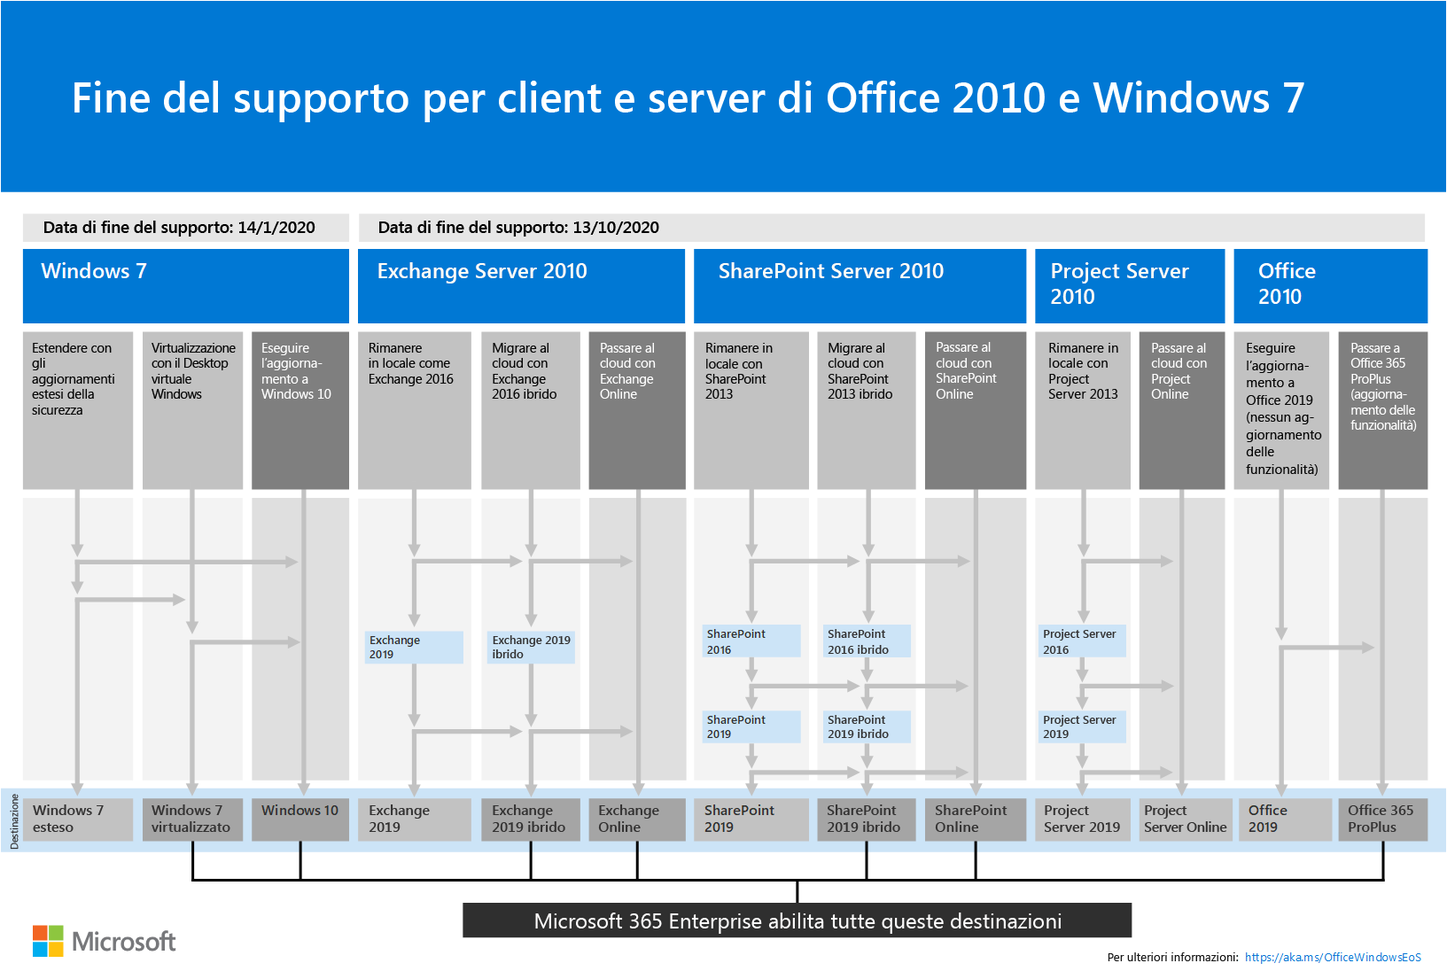
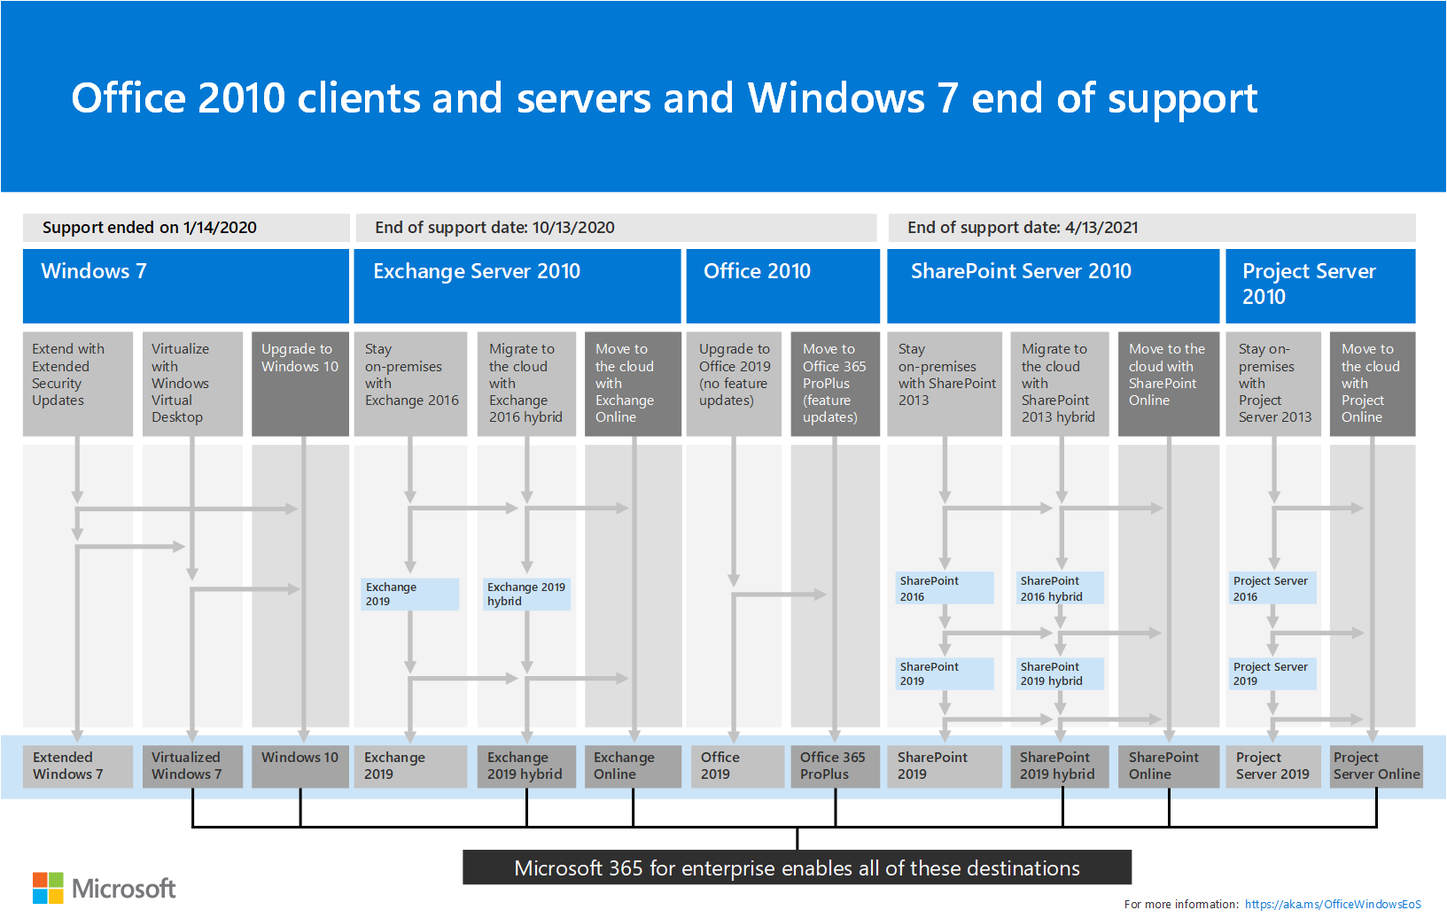
commit translated contents

diff --git a/microsoft-365/admin/security-and-compliance/multi-factor-authentication-plan.md b/microsoft-365/admin/security-and-compliance/multi-factor-authentication-plan.md
@@ -20,16 +20,16 @@ search.appverid:
 ms.assetid: 043807b2-21db-4d5c-b430-c8a6dee0e6ba
 ROBOTS: NOINDEX, NOFOLLOW
 description: Informazioni sull'autenticazione a più fattori in Office 365 e sui passaggi da seguire per configurarlo.
-ms.openlocfilehash: be3b355f4487e2df5c2e20c9911c3bb421d5f7e1
-ms.sourcegitcommit: 00ce4626e1be182c5a91210a23662c9704384efa
+ms.openlocfilehash: 715baeb0355ab203e890f2c87cf0751eff69e7f8
+ms.sourcegitcommit: dbbdeca5a6cd048e1bde9e820a8b8a0d6022c7a2
 ms.translationtype: MT
 ms.contentlocale: it-IT
-ms.lasthandoff: 04/07/2020
-ms.locfileid: "43170941"
+ms.lasthandoff: 04/14/2020
+ms.locfileid: "43503996"
 ---
 # <a name="plan-for-multi-factor-authentication-for-office-365-deployments"></a>Pianificare l'autenticazione a più fattori per le distribuzioni di Office 365
 
-L'autenticazione a più fattori (MFA) è un metodo di autenticazione che richiede l'uso di più metodi di verifica e aggiunge un secondo livello di sicurezza agli accessi e alle transazioni degli utenti. Funziona richiedendo due o più dei metodi di verifica seguenti:
+L'autenticazione a più fattori (MFA) è un metodo di autenticazione che richiede l'uso di più metodi di verifica e aggiunge un secondo livello di sicurezza agli accessi e alle transazioni degli utenti. Funziona richiedendo un passaggio di verifica di addizione con informazioni oltre la password dell'account utente, ad esempio:
   
 - Un passcode generato casualmente
     
@@ -39,11 +39,11 @@ L'autenticazione a più fattori (MFA) è un metodo di autenticazione che richied
     
 - Un dispositivo biometrico 
     
-## <a name="multi-factor-authentication-in-office-365"></a>Autenticazione a più fattori in Office 365
+## <a name="mfa-in-office-365"></a>AMF in Office 365
 
-Office 365 utilizza l'autenticazione a più fattori per fornire la sicurezza aggiuntiva ed è gestita dall'interfaccia di amministrazione di Microsoft 365. Office 365 offre il seguente sottoinsieme di funzionalità di autenticazione a più fattori di Azure come parte della sottoscrizione: 
+Office 365 utilizza l'AMF per la sicurezza di accesso supplementare e può essere gestito per ogni singolo account utente dall'interfaccia di amministrazione di Microsoft 365. Office 365 offre il seguente sottoinsieme di funzionalità di autenticazione a più fattori di Azure come parte dell'abbonamento: 
   
-- La possibilità di abilitare e applicare l'autenticazione a più fattori per gli utenti finali
+- La possibilità di abilitare e applicare l'AMF per gli utenti finali
     
 - L'uso di un'app per dispositivi mobili (online o OTP, One-Time Password) come secondo fattore di autenticazione
     
@@ -51,21 +51,24 @@ Office 365 utilizza l'autenticazione a più fattori per fornire la sicurezza agg
     
 - L'uso di un SMS come secondo fattore di autenticazione
     
-- Password delle applicazioni per i client non browser, ad esempio, il software di comunicazione Microsoft Lync 2013
+- Password dell'applicazione per i client non browser (ad esempio, il software di comunicazione Microsoft Lync 2013)
     
 - Messaggio di saluto predefinito Microsoft durante le telefonate di autenticazione
     
 Per l'elenco completo delle funzionalità aggiunte, vedere [il confronto con la versione Azure Multi-Factor Authentication](https://go.microsoft.com/fwlink/?LinkId=506927). È sempre possibile usufruire delle funzionalità complete acquistando il servizio Azure Multi-Factor Authentication. 
   
-Il subset di funzionalità varia a seconda che si abbia una distribuzione solo cloud per Office 365 o una configurazione ibrida con Single Sign-On e Active Directory Federation Services (ADFS). 
+È possibile ottenere un diverso sottoinsieme di funzionalità a seconda che si disponga di una identità ibrida o di solo cloud per Office 365 o di autenticazione federata con Active Directory Federation Services (ADFS). 
   
-|**Da dove si gestisce il tenant di Office 365?**|**Opzioni per il secondo fattore dell'autenticazione a più fattori**|
-|:-----|:-----|
-|Solo cloud  <br/> |Autenticazione a più fattori di Azure (testo o telefonata)  <br/> |
-|Configurazione ibrida, gestita in locale  <br/> | Se l'identità utente viene gestita in locale, sono disponibili le opzioni seguenti:  <br/>  Smart Card fisica o virtuale (quando si utilizza ADFS)  <br/> [Autenticazione](https://go.microsoft.com/fwlink/p/?LinkId=526677) a più fattori di Azure (modulo per ADFS)  <br/>  Autenticazione a più fattori di Azure Active Directory (Azure AD)  <br/> |
+|**Dove si gestisce il tenant di Office 365?** | **Opzioni del secondo fattore di AMF**|
+
+|:-----|:-----| | Solo cloud  <br/> | Autenticazione a più fattori di Azure (testo o telefonata)  <br/> | | Configurazione ibrida, gestita in locale  <br/> | Se si gestisce l'identità dell'utente locale, sono disponibili le opzioni seguenti:  <br/>  Smart Card fisica o virtuale (quando si utilizza ADFS)  <br/> [Autenticazione](https://go.microsoft.com/fwlink/p/?LinkId=526677) a più fattori di Azure (modulo per ADFS)  <br/>  Autenticazione a più fattori di Azure Active Directory (Azure AD)  <br/> |
    
   
-La figura seguente mostra in che modo le app aggiornate per i dispositivi di Office 2013 (in Windows) consentono agli utenti di accedere con l'autenticazione a più fattori. Le app per dispositivi di Office 2013 supportano l'autenticazione a più fattori tramite l'utilizzo della [libreria di autenticazione di Active Directory (adal)](https://go.microsoft.com/fwlink/p/?LinkId=526684). Azure AD ospita una pagina Web per l'accesso degli utenti. Il provider di identità può essere Azure AD o un provider di identità federate come ADFS. L'autenticazione per gli utenti federati prevede i passaggi seguenti:
+La figura seguente mostra in che modo le app aggiornate per i dispositivi di Office 2013 (in Windows) consentono agli utenti di accedere con l'autenticazione a più fattori. 
+
+![Modern authentication for Office 2013 device apps.](../../media/dc37645c-b899-4715-b162-d7653bd0aebd.png)
+
+Le app per dispositivi di Office 2013 supportano l'autenticazione a più fattori tramite l'utilizzo della [libreria di autenticazione di Active Directory (adal)](https://go.microsoft.com/fwlink/p/?LinkId=526684). Azure AD ospita una pagina Web per l'accesso degli utenti. Il provider di identità può essere Azure AD o un provider di identità federate come ADFS. L'autenticazione per gli utenti federati prevede i passaggi seguenti:
   
 1. Azure AD reindirizza l'utente alla pagina Web di accesso ospitata dal provider di identità del record per il tenant di Office 365. Il provider di identità è determinato dal dominio specificato nel nome di accesso dell'utente.
     
@@ -75,11 +78,8 @@ La figura seguente mostra in che modo le app aggiornate per i dispositivi di Off
     
 4. Azure AD restituisce un token Web JSON (JWT) all'app per i dispositivi di Office e l'app viene autenticata usando un token JWT con Office 365. 
     
-Questa operazione è descritta in dettaglio nella figura seguente:
   
-![Modern authentication for Office 2013 device apps.](../../media/dc37645c-b899-4715-b162-d7653bd0aebd.png)
-  
-## <a name="software-requirements"></a>Requisiti software
+## <a name="requirements-for-office-2013-client-apps"></a>Requisiti per le app client di Office 2013
 
 Per abilitare l'autenticazione a più fattori per le app client di Office 2013, è necessario che sia installato il software seguente (la versione elencata di seguito o una versione più recente) a seconda che sia stata eseguita un'[Installazioni basate su A portata di clic](#click-to-run-based-installations) o un' [Installazioni basate su MSI](#msi-based-installations).
   
@@ -91,11 +91,13 @@ Per determinare se l'installazione di Office è basata su A portata di clic o su
     
 3. Per le installazioni A portata di clic di Outlook 2013, viene visualizzato il pulsante **Opzioni di aggiornamento**. Per le installazioni basate su MSI, non viene visualizzato il pulsante **Opzioni di aggiornamento**. 
     
-    ![Graphic that shows how to tell if Office 2013 install is click-to-run or MSI-based](../../media/1e75143f-9e37-4e0c-9610-43a80771571e.png)
+    ![Come stabilire se l'installazione di Office 2013 è a portata di clic o basata su MSI](../../media/1e75143f-9e37-4e0c-9610-43a80771571e.png)
+
+Per ulteriori informazioni, vedere l' [articolo relativo alle domande frequenti sull'autenticazione moderna wiki](https://go.microsoft.com/fwlink/p/?LinkId=530064).
   
 ### <a name="click-to-run-based-installations"></a>Installazioni basate su A portata di clic
 
-Per le installazioni basate su A portata di clic è necessario che nel computer sia installato il software seguente (la versione elencata di seguito o una versione successiva). Se la versione del file non è uguale o successiva alla versione del file nell'elenco, aggiornarla con la procedura seguente.
+Per le installazioni basate su a portata di clic, è necessario che sia installato il software seguente, con la versione del file riportata di seguito o una versione successiva. Se la versione del file non è uguale o successiva alla versione del file nell'elenco, aggiornarla con la procedura seguente.
   
 |**Usare l'attività di riepilogo del progetto per allegare o creare un collegamento ai documenti per la pianificazione**|**Percorso di installazione nel computer**|**Versione del file**|
 |:-----|:-----|:-----|
@@ -121,30 +123,24 @@ Per le installazioni basate su MSI è necessario che nel computer sia installato
    
 ## <a name="enable-mfa"></a>Abilitare l'autenticazione a più fattori
 
-Per abilitare l'autenticazione a più fattori, è necessario completare le operazioni seguenti:
+Per abilitare l'AMF per l'abbonamento a Office 365, attenersi alla seguente procedura:
   
-1. Abilitare i client per l'autenticazione moderna:
+1. Se necessario, [abilitare l'autenticazione moderna per Office 2013 nei dispositivi Windows](enable-modern-authentication.md).
     
-  - [Abilitare l'autenticazione moderna per Office 2013 nei dispositivi Windows](enable-modern-authentication.md) . 
+2. Per l'autenticazione federata, impostare l'autenticazione a più fattori di Azure con il servizio directory di terze parti.
     
-  - Configurare l'autenticazione a più fattori di Azure con servizi directory di terze parti.
+    Per informazioni su provider di identità specifici accettati per questo programma, vedere [scenari avanzati con autenticazione a più fattori di Azure e soluzioni VPN di terze parti](https://docs.microsoft.com/azure/active-directory/authentication/howto-mfaserver-nps-vpn) . 
     
-    Per informazioni su specifici provider di identità accettati per questo programma, vedere [scenari avanzati con autenticazione a più fattori di Azure e soluzioni VPN di terze parti](https://docs.microsoft.com/azure/active-directory/authentication/howto-mfaserver-nps-vpn) . 
+3. [Configurare l'autenticazione a più fattori per Office 365](set-up-multi-factor-authentication.md).
     
-2. [Configurare l'autenticazione a più fattori per Office 365](set-up-multi-factor-authentication.md)
-    
-3. Spiegare ai singoli utenti come effettuare l'accesso con l'autenticazione a più fattori: [Accedere a Office 365 con la verifica in due passaggi](https://support.office.com/article/2b856342-170a-438e-9a4f-3c092394d3cb.aspx).
+4. Informare gli utenti sulla [configurazione dell'AMF per l'account utente di Office 365](https://support.office.com/article/set-up-2-step-verification-for-office-365-ace1d096-61e5-449b-a875-58eb3d74de14). Dopo aver impostato il metodo di autenticazione secondario, i relativi accessi futuri richiederanno l'AMF.
     
 > [!IMPORTANT]
-> Se gli utenti sono stati abilitati per l'autenticazione a più fattori di Azure e dispongono di tutti i dispositivi che eseguono Office 2013 che non sono abilitati per l'autenticazione moderna, dovranno utilizzare AppPasswords su tali dispositivi. Per altre informazioni sulle password per app (AppPassword) e su quando, dove e come usarle, vedere: [Password per app con Azure Multi_Factor Authentication](https://go.microsoft.com/fwlink/p/?LinkId=528178). 
+> Se gli utenti sono stati abilitati per l'autenticazione a più fattori di Azure e dispongono di tutti i dispositivi che eseguono Office 2013 che non sono abilitati per l'autenticazione moderna, dovranno utilizzare le password dell'app. Per ulteriori informazioni sulle password delle app e sulla modalità di utilizzo, è possibile trovare le [password delle app con l'autenticazione Multi_Factor di Azure](https://go.microsoft.com/fwlink/p/?LinkId=528178). 
   
-## <a name="faq"></a>Domande frequenti
-
-[Domande frequenti sull'articolo wiki sull'autenticazione moderna](https://go.microsoft.com/fwlink/p/?LinkId=530064)
+## <a name="known-issues"></a>Problemi noti
   
- **Problemi noti:**
-  
-[Autenticazione moderna di Office 2013 e Office 365 ProPlus: Informazioni utili prima del processo di onboarding](https://social.technet.microsoft.com/wiki/contents/articles/30214.office-2013-and-office-365-proplus-modern-authentication-things-to-know-before-onboarding.aspx)
+[Autenticazione moderna di Office 2013 e Office 365 ProPlus: informazioni utili per l'onboarding](https://social.technet.microsoft.com/wiki/contents/articles/30214.office-2013-and-office-365-proplus-modern-authentication-things-to-know-before-onboarding.aspx)
   
  **Risoluzione dei problemi di Azure Multi-Factor Authentication:**
   

diff --git a/microsoft-365/admin/security-and-compliance/set-up-multi-factor-authentication.md b/microsoft-365/admin/security-and-compliance/set-up-multi-factor-authentication.md
@@ -22,12 +22,12 @@ search.appverid:
 ms.assetid: 8f0454b2-f51a-4d9c-bcde-2c48e41621c6
 description: Informazioni su come usare le impostazioni predefinite per la sicurezza per configurare l'autenticazione a più fattori per gli utenti di Office 365.
 monikerRange: o365-worldwide
-ms.openlocfilehash: 5f468f040ca88ab4ab2bc198d0d7550bf2e7f4af
-ms.sourcegitcommit: 8a88b7526e6a3a907f33a8567e0d25b74fe60d80
+ms.openlocfilehash: 7e48f72f2fd8cfc5042bd15f994cc98bfa5fca8c
+ms.sourcegitcommit: dbbdeca5a6cd048e1bde9e820a8b8a0d6022c7a2
 ms.translationtype: MT
 ms.contentlocale: it-IT
-ms.lasthandoff: 04/09/2020
-ms.locfileid: "43204023"
+ms.lasthandoff: 04/14/2020
+ms.locfileid: "43503972"
 ---
 # <a name="set-up-multi-factor-authentication"></a>Configurare l'autenticazione a più fattori
   
@@ -37,6 +37,7 @@ ms.locfileid: "43204023"
 Nei nuovi abbonamenti a Office 365 per le aziende o Microsoft 365 Business le impostazioni predefinite per la sicurezza sono attivate automaticamente. Questo significa che ogni utente dovrà configurare il master e installare l'app Microsoft Authenticator sul proprio dispositivo mobile. Per altre informazioni, vedere [Configurare la verifica in due passaggi per Office 365](https://support.office.com/article/ace1d096-61e5-449b-a875-58eb3d74de14).  
 
 I nove ruoli di amministratore seguenti dovranno eseguire delle autenticazioni aggiuntive ogni volta che eseguono l'accesso:
+
 - Amministratore globale
 - Amministratore di SharePoint
 - Amministratore di Exchange
@@ -47,7 +48,7 @@ I nove ruoli di amministratore seguenti dovranno eseguire delle autenticazioni a
 - Amministratore utenti
 - Amministratore dell'autenticazione
 
-Tutti gli altri utenti dovranno eseguire l'autenticazione aggiuntiva quando necessario. Per altre informazioni, vedere [Che cosa sono le impostazioni predefinite per la sicurezza?](https://docs.microsoft.com/azure/active-directory/fundamentals/concept-fundamentals-security-defaults)
+Tutti gli altri utenti dovranno eseguire l'autenticazione aggiuntiva quando necessario. Per ulteriori informazioni, vedere [che cosa sono le impostazioni predefinite](https://docs.microsoft.com/azure/active-directory/fundamentals/concept-fundamentals-security-defaults)per la sicurezza.
 
 > [!NOTE]
 > È necessario essere un amministratore globale di Office 365 per impostare o modificare l'AMF. <br><br>
@@ -62,7 +63,6 @@ Se in precedenza è stata configurata l'autenticazione a più fattori con criter
 
 1. Accedere all'[interfaccia di amministrazione](https://go.microsoft.com/fwlink/p/?linkid=834822) con le credenziali di amministratore globale.
 2. Passare alle [Proprietà di Azure Active Directory](https://portal.azure.com/#blade/Microsoft_AAD_IAM/ActiveDirectoryMenuBlade/Properties).
-
 3. Nella parte inferiore della pagina scegliere **Gestire le impostazioni predefinite per la sicurezza**.
 4. Scegliere **Sì** per abilitare le impostazioni predefinite per la sicurezza o **No** per disabilitare le impostazioni predefinite per la sicurezza e quindi scegliere **Salva**.
 
@@ -74,9 +74,9 @@ Se in precedenza è stata configurata l'autenticazione a più fattori con criter
 
 3. Sulla **sicurezza | Pagina introduttiva** , scegliere **accesso condizionale**. 
 
-4. Nella pagina **Criteri di accesso condizionale al portale di Azure** selezionare ogni criterio di base **Attivato** e impostarlo su **Disattivato**.
+4. Nella pagina **criteri di accesso condizionale** scegliere tutti i criteri di base **che sono**attivi e impostarli su **disattivato**.
 5. Passare alla pagina [Proprietà di Azure Active Directory](https://portal.azure.com/#blade/Microsoft_AAD_IAM/ActiveDirectoryMenuBlade/Properties).
-6. Nella parte inferiore della pagina scegliere **Gestire le impostazioni predefinite per la sicurezza**e nel riquadro **Abilitare le impostazioni predefinite per la sicurezza** impostare **Abilita le impostazioni predefinite per la sicurezza** su **Sì**. 
+6. Nella parte inferiore della pagina fare clic su **Gestisci impostazioni predefinite di sicurezza**e, nel riquadro **Attiva impostazioni di sicurezza** , impostare **Consenti impostazioni predefinite di sicurezza** su **Sì**e quindi scegliere **Salva**. 
 
 ## <a name="enable-modern-authentication-for-your-organization"></a>Abilitare l'autenticazione moderna per l'organizzazione
 
@@ -84,12 +84,13 @@ Tutte le applicazioni client di Office 2016 supportano MFA con ADAL (Active Dire
 
 1. Per abilitare l'autenticazione moderna, nell'[interfaccia di amministrazione](https://go.microsoft.com/fwlink/p/?linkid=834822) selezionare **Impostazioni** \> **Impostazioni** e quindi nella scheda **Servizi** scegliere **Autenticazione moderna** dall'elenco.
 
-2. Selezionare la casella **Abilita l'autenticazione moderna** nel pannello **Autenticazione moderna**. 
+2. Selezionare la casella **Attiva autenticazione moderna (scelta consigliata)** nel pannello **autenticazione moderna** e quindi fare clic su **Salva modifiche**. 
 
     ![Pannello Autenticazione moderna con casella di controllo Abilita selezionata.](../../media/enablemodernauth.png)
     
 > [!IMPORTANT]
 > Dal mese di agosto 2017 tutti i nuovi tenant di Office 365 che includono Skype for Business Online ed Exchange Online hanno l'autenticazione moderna abilitata per impostazione predefinita. Per controllare lo stato di autenticazione moderna di Skype for Business Online, è possibile usare PowerShell per Skype for Business Online con credenziali di amministratore globale. Eseguire Get-CsOAuthConfiguration per controllare l'output di -ClientADALAuthOverride. Se -ClientADALAuthOverride è "Allowed" (Consentito), l'autenticazione moderna è attiva.
+
 Per controllare lo stato di autenticazione moderna per Exchange Online, vedere [Abilitare l'autenticazione moderna in Exchange Online](https://docs.microsoft.com/exchange/clients-and-mobile-in-exchange-online/enable-or-disable-modern-authentication-in-exchange-online).
 
 ## <a name="related-articles"></a>Articoli correlati

diff --git a/microsoft-365/enterprise/microsoft-365-overview.md b/microsoft-365/enterprise/microsoft-365-overview.md
@@ -13,12 +13,12 @@ localization_priority: Normal
 ms.collection: M365-subscription-management
 ms.custom: it-pro
 description: Viene fornita un'introduzione ai percorsi per i componenti, i piani e la distribuzione di Microsoft 365 per Enterprise.
-ms.openlocfilehash: 043953ddfd38a9ef5119546ec5672dd46e8acb53
-ms.sourcegitcommit: 053d42480d8aa3792ecb0027ddd53d383a029474
+ms.openlocfilehash: 6b8d2aa7fd8455acde1d49a6ed7f7c93c5235652
+ms.sourcegitcommit: dbbdeca5a6cd048e1bde9e820a8b8a0d6022c7a2
 ms.translationtype: MT
 ms.contentlocale: it-IT
-ms.lasthandoff: 04/07/2020
-ms.locfileid: "43175191"
+ms.lasthandoff: 04/14/2020
+ms.locfileid: "43504092"
 ---
 # <a name="microsoft-365-for-enterprise-overview"></a>Panoramica di Microsoft 365 per le aziende
 
@@ -84,15 +84,14 @@ Questo poster a due pagine rappresenta un modo rapido per inventariare l'infrast
 
 ## <a name="avoid-end-of-support-for-windows-7-and-office-2010-clients-and-servers"></a>Evitare la fine del supporto per i client e i server Windows 7 e Office 2010
 
-I prodotti seguenti hanno raggiunto la fine del supporto il **14 gennaio 2020**:
-
-- [Windows 7](https://aka.ms/win7upgrade)
+[Windows 7](https://aka.ms/win7upgrade) ha raggiunto la fine del supporto il **14 gennaio 2020**.
 
 I prodotti seguenti potranno raggiungere la fine del supporto il **13 ottobre 2020**:
 
 - [Office 2010](https://docs.microsoft.com/DeployOffice/office-2010-end-support-roadmap)
 - [Exchange Server 2010](https://docs.microsoft.com/office365/enterprise/exchange-2010-end-of-support)
-- [SharePoint Server 2010](https://docs.microsoft.com/office365/enterprise/upgrade-from-sharepoint-2010)
+
+[SharePoint Server 2010](https://docs.microsoft.com/office365/enterprise/upgrade-from-sharepoint-2010) raggiungerà la fine del supporto il **13 aprile 2021**.
 
 Per un riepilogo visivo delle opzioni di aggiornamento, migrazione e passaggio al cloud per questi prodotti, vedere il [poster relativo alla fine del supporto](../media/migration-microsoft-365-enterprise-workload/Office2010Windows7EndOfSupport.pdf).
 
@@ -102,7 +101,7 @@ Questo poster di una pagina è un modo rapido per comprendere i diversi percorsi
 
 È anche possibile [scaricare il poster](https://github.com/MicrosoftDocs/microsoft-365-docs/raw/public/microsoft-365/media/migration-microsoft-365-enterprise-workload/Office2010Windows7EndOfSupport.pdf) e stamparlo in formato lettera, legale o tabloid (27,9 x 43,2 cm).
 
-## <a name="deploy"></a>Distribuzione
+## <a name="deploy"></a>Distribuire
 
 Esistono tre modi per distribuire i prodotti, le caratteristiche e i componenti di Microsoft 365 per Enterprise:
 

diff --git a/microsoft-365/security/mtp/preview.md b/microsoft-365/security/mtp/preview.md
@@ -19,12 +19,12 @@ ms.topic: conceptual
 search.appverid:
 - MOE150
 - MET150
-ms.openlocfilehash: f04d2e587a55a680a65425b34a88896466e09be3
-ms.sourcegitcommit: 9ca28ae8f7804eb488cf76ca4b09fe88787e0a49
+ms.openlocfilehash: c4facaac82ff8486c0c3a846e4f577c7888a3161
+ms.sourcegitcommit: dbbdeca5a6cd048e1bde9e820a8b8a0d6022c7a2
 ms.translationtype: MT
 ms.contentlocale: it-IT
-ms.lasthandoff: 04/02/2020
-ms.locfileid: "43113460"
+ms.lasthandoff: 04/14/2020
+ms.locfileid: "43503984"
 ---
 # <a name="microsoft-threat-protection-preview-features"></a>Funzionalità di anteprima di Microsoft Threat Protection
 
@@ -54,8 +54,9 @@ Attiva l'impostazione Anteprima esperienza per essere tra i primi a provare le f
 
 Quando si vede che è selezionata la casella di controllo attiva le caratteristiche di **Anteprima** , si noterà che è attiva la funzionalità di anteprima. 
 
-
-
 ## <a name="preview-features"></a>Funzionalità di anteprima
-Questa sezione verrà aggiornata con un elenco di funzionalità che sono in anteprima quando diventano disponibili per provare. 
+Le caratteristiche e i miglioramenti seguenti sono attualmente disponibili in anteprima:
 
+- **[Rilevamenti personalizzati](custom-detections-overview.md)** : utilizzare query di caccia avanzate per creare regole che ricercano automaticamente l'attività di violazione e altri elementi di interesse a intervalli regolari. Corrisponde agli avvisi del trigger di query e alle azioni di risposta specificate.
+
+- **[Tabelle di identità e app](advanced-hunting-schema-tables.md)** : consente di ottenere visibilità negli eventi di autenticazione, nelle query di Active Directory e nell'attività correlata all'applicazione con le tabelle [IdentityLogonEvents](advanced-hunting-identitylogonevents-table.md), [IdentityQueryEvents](advanced-hunting-identityqueryevents-table.md)e [AppFileEvents](advanced-hunting-appfileevents-table.md) nello schema di caccia avanzato.

diff --git a/microsoft-365/business/support/transition-csp-subscription.md b/microsoft-365/business/support/transition-csp-subscription.md
@@ -1,5 +1,5 @@
 ---
-title: Transizione di un abbonamento Microsoft 365 Business CSP 
+title: Transizione di un abbonamento Microsoft 365 Business CSP
 description: Informazioni su come è possibile eseguire la transizione di un abbonamento CSP Microsoft 365 business dall'anteprima alla disponibilità generale (GA).
 author: jasongroce
 f1.keywords:
@@ -13,12 +13,12 @@ localization_priority: Normal
 audience: microsoft-business 
 keywords: Microsoft 365 Business, Microsoft 365, SMB, abbonamento CSP transizione
 ms.date: 11/01/2017
-ms.openlocfilehash: 77b7b474a5ad17db58e283ea61b074c959905d1b
-ms.sourcegitcommit: 217de0fc54cbeaea32d253f175eaf338cd85f5af
+ms.openlocfilehash: 0a30d80ad5217868fec81866ab1dc41013917e99
+ms.sourcegitcommit: dbbdeca5a6cd048e1bde9e820a8b8a0d6022c7a2
 ms.translationtype: MT
 ms.contentlocale: it-IT
-ms.lasthandoff: 03/07/2020
-ms.locfileid: "42560781"
+ms.lasthandoff: 04/14/2020
+ms.locfileid: "43504108"
 ---
 # <a name="transition-a-microsoft-365-business-csp-subscription"></a>Transizione di un abbonamento Microsoft 365 Business CSP
 
